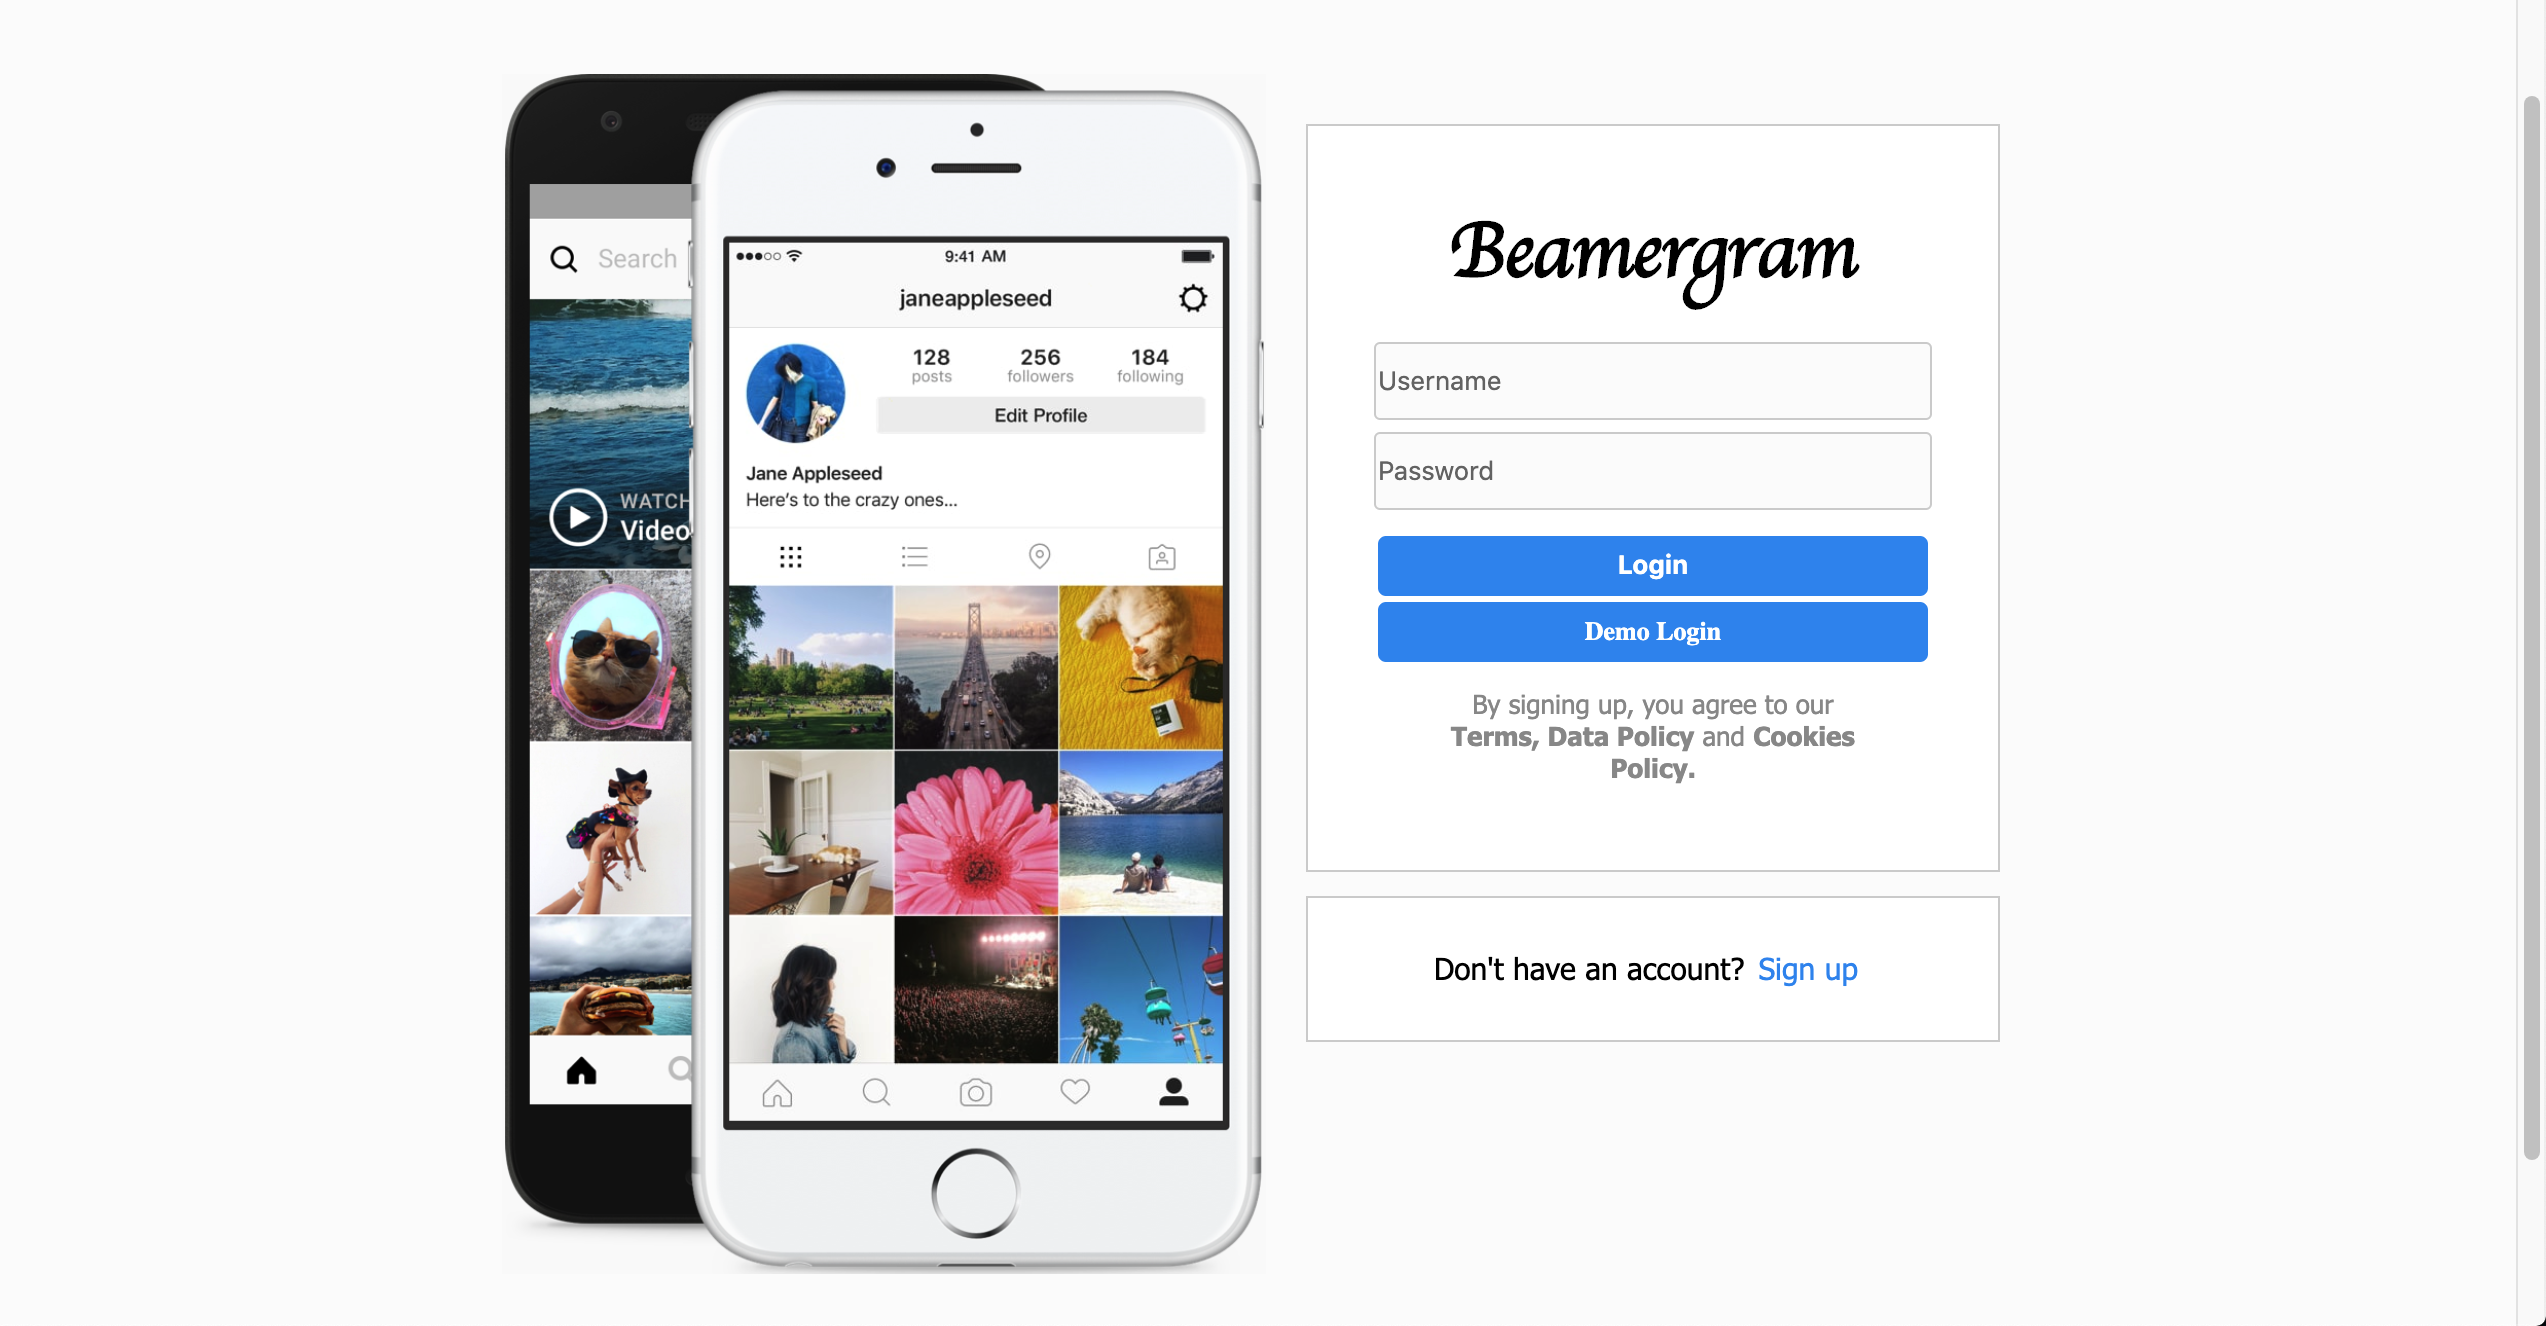
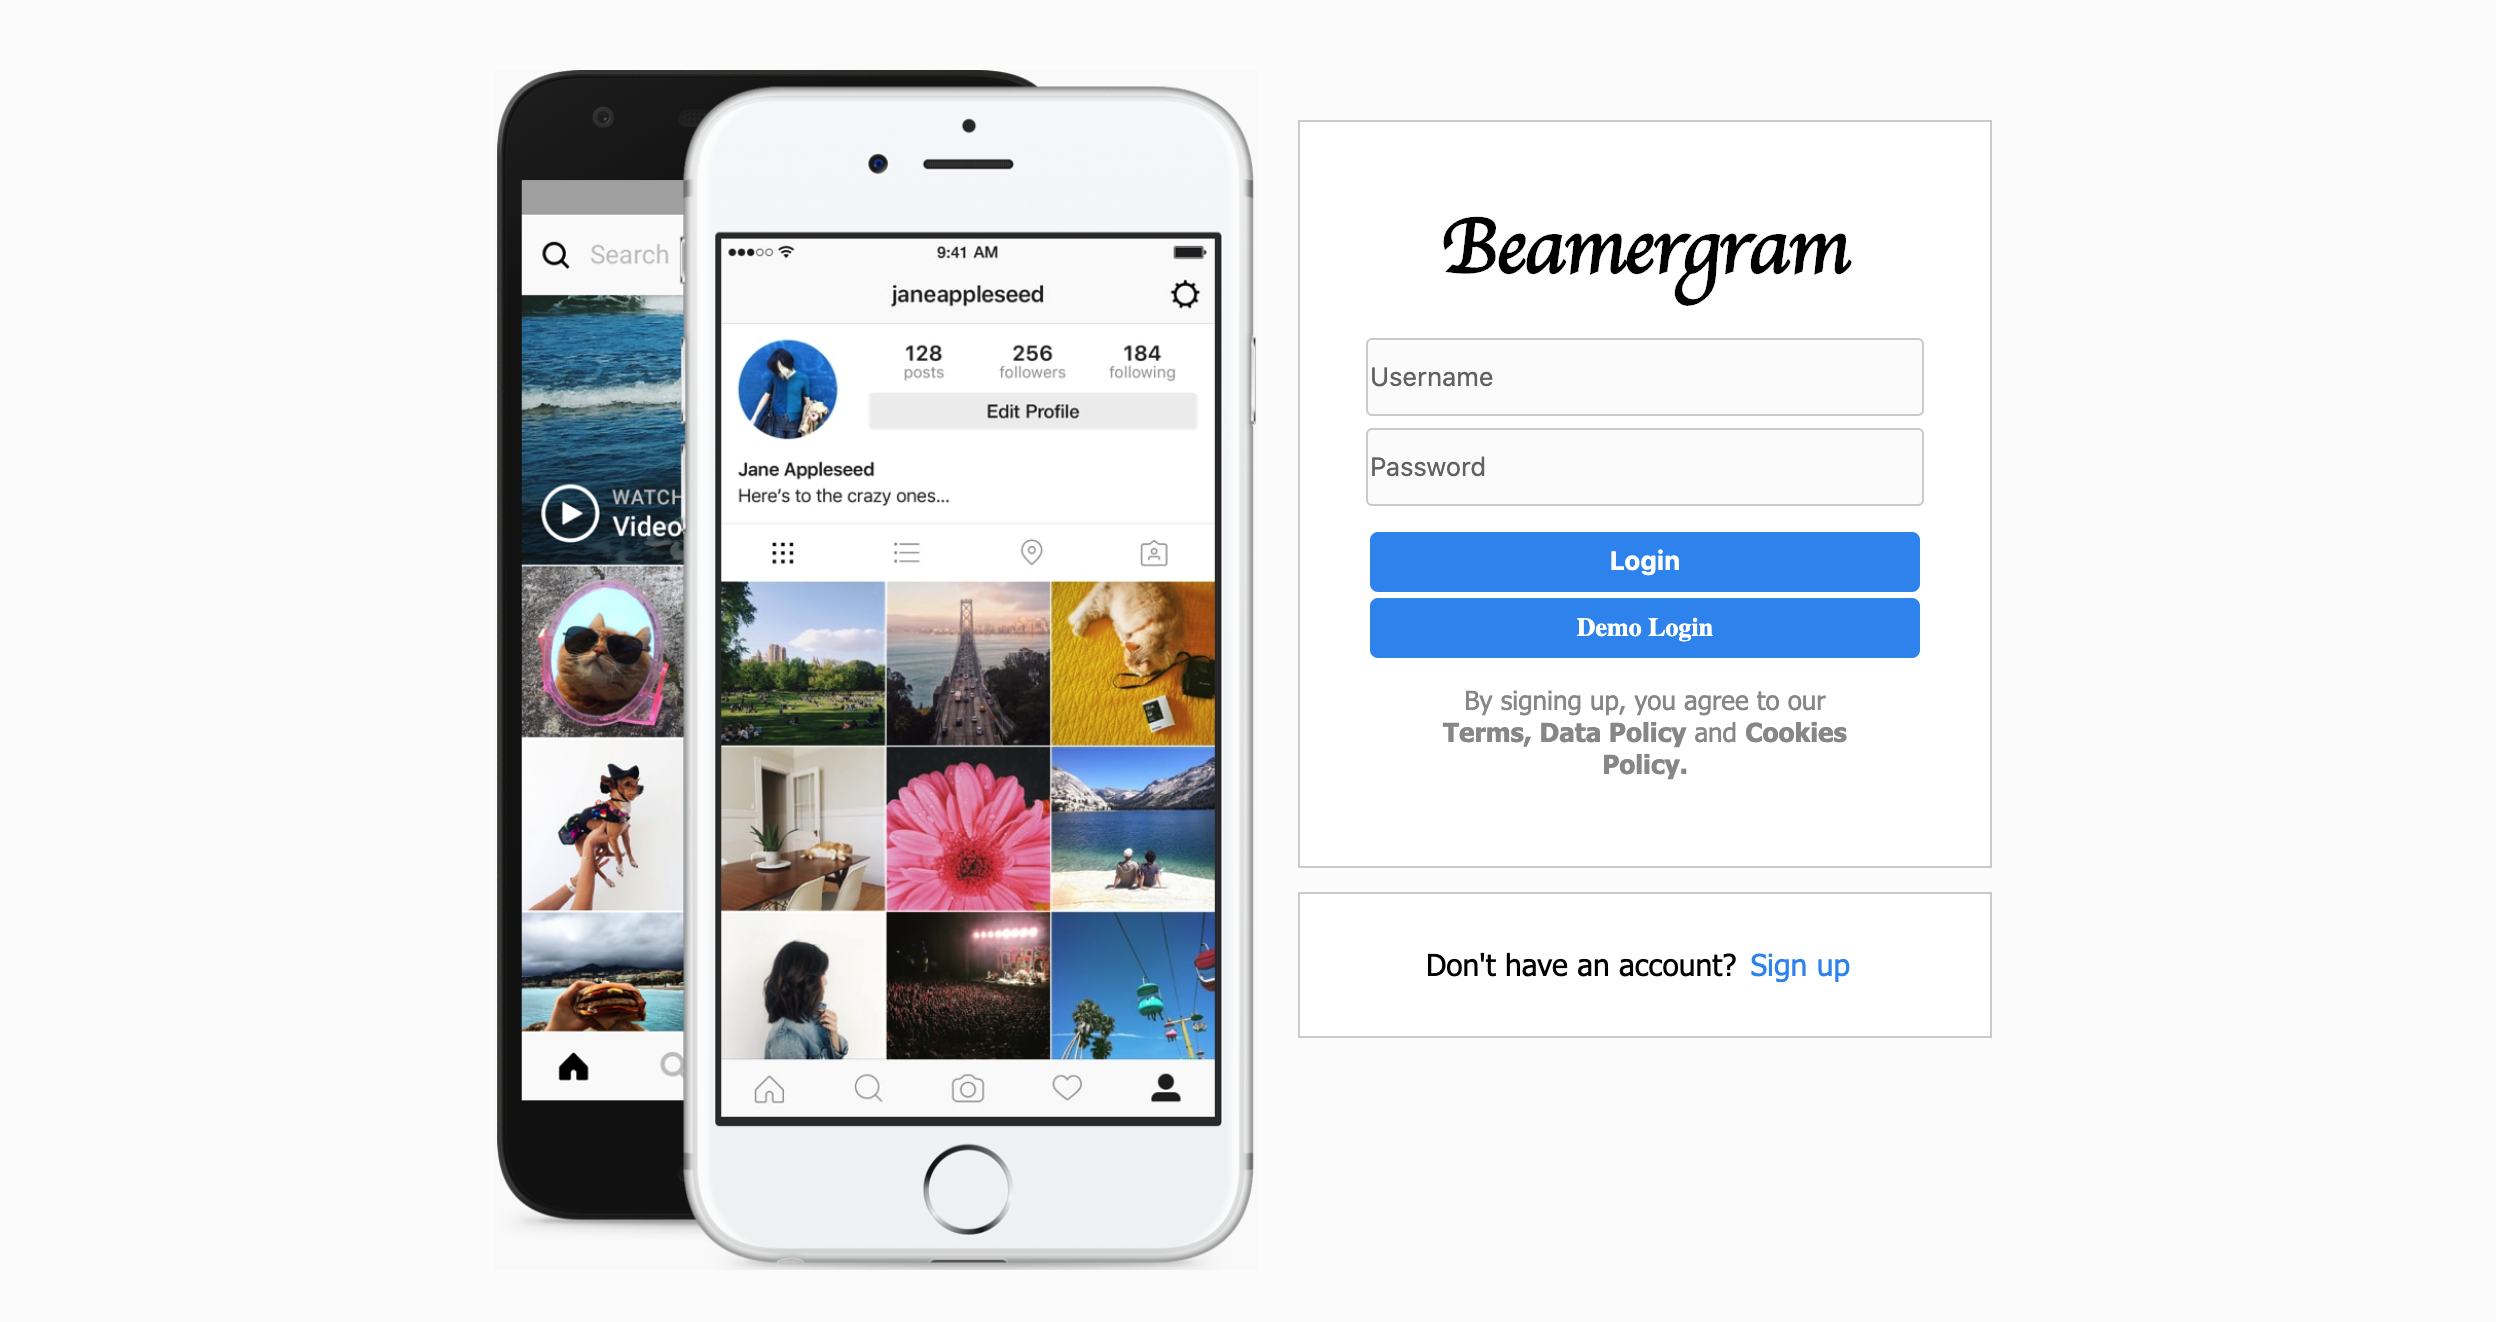
Add Beamergram image

diff --git a/index.html b/index.html
@@ -117,7 +117,7 @@
 				<!-- Two -->
 					<section id="two" class="wrapper alt style2">
 						<section class="spotlight">
-							<div class="image"><img src="images/pic01.jpg" alt="" /></div><div class="content">
+							<div class="image"><img src="images/beamergram_image.png" alt="" /></div><div class="content">
 								<h2>Beamergram</h2>
 									<input type="button" 
 									onClick=window.location="https://beamergram.herokuapp.com/#/login" 
